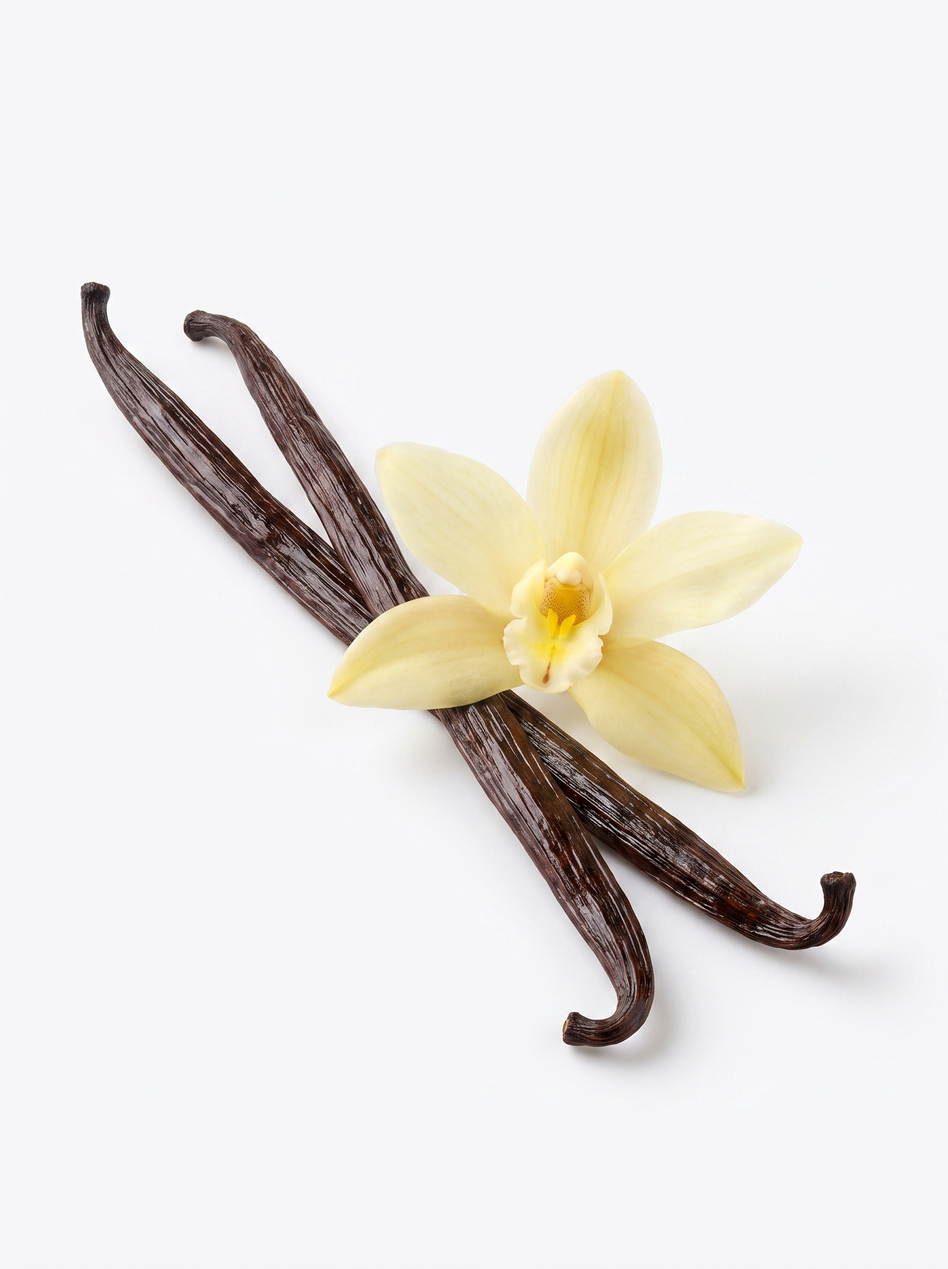
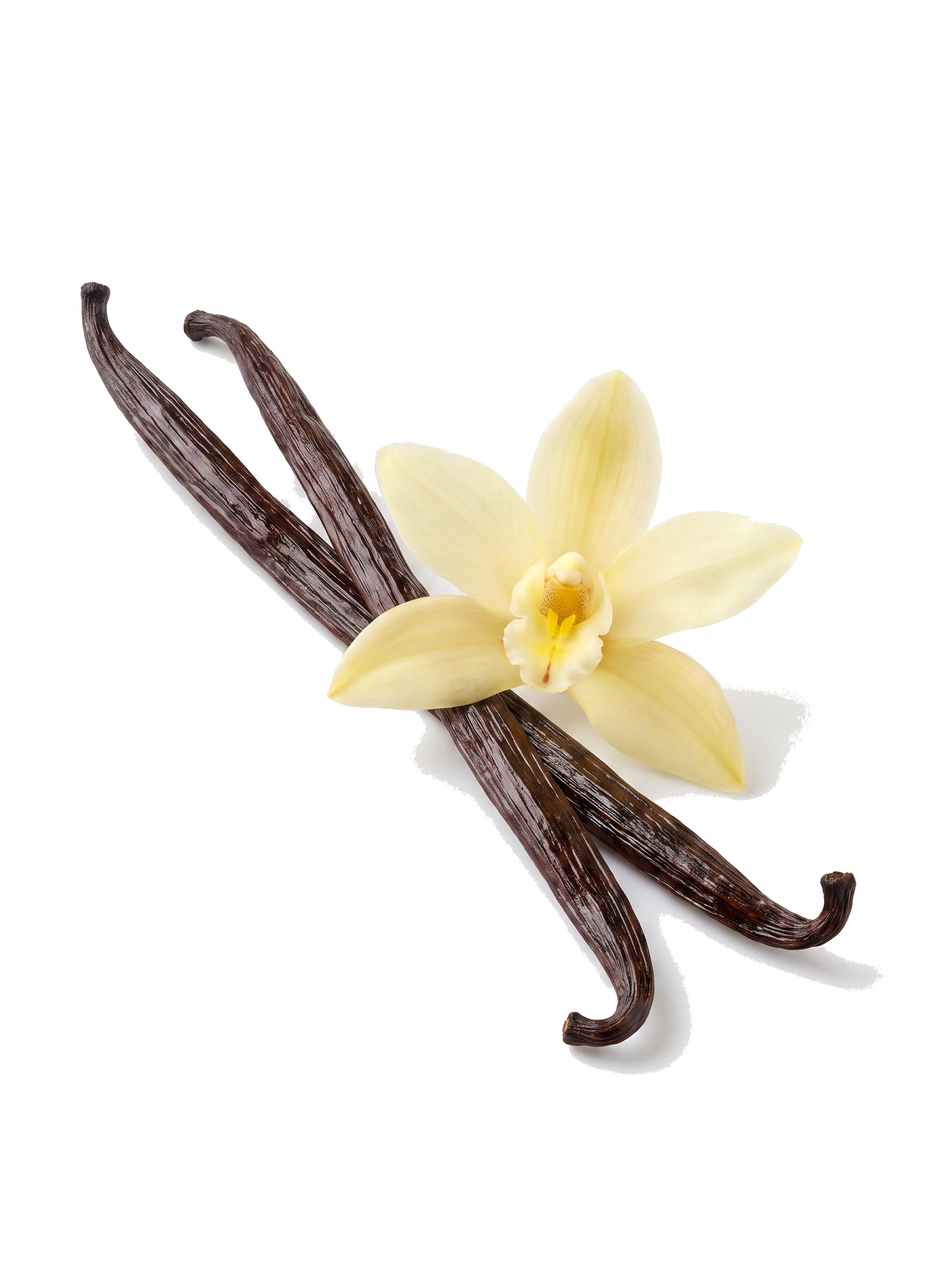
Vanilla flavor card: interactive hover with ingredient layers + buttons
- Cut white bg from eff1-eff4 ingredient layers (transparent)
- Vanilla tile now layers 4 ingredient PNGs behind the transparent pouch
  (vanilla.png); on hover they rise from behind the pack in sequence
  (ice cream → stems → oatmeal → milk) and settle; reverse on mouse-out
- 'Заказать на OZON' + 'Описание' buttons fade in at the bottom on hover
- Pure CSS :hover, clipped to the card, pack kept in-flow to avoid the
  collapsed aspect-ratio bug

Claude-Session: https://claude.ai/code/session_01NcLD4ysX1Lq8JnggMBUMaA

diff --git a/index.html b/index.html
@@ -476,6 +476,42 @@ a:focus-visible,button:focus-visible,input:focus-visible{
   color:var(--ink);opacity:.45;}
 /* reserved strip for the 2 order buttons (added later) — ~1cm */
 .tile .actions{flex:0 0 auto;height:40px;}
+/* ---------- Interactive vanilla card ---------- */
+.tile.vanilla .photo{position:relative;aspect-ratio:3/4;overflow:hidden;background:var(--cream);}
+/* pack stays in-flow so it defines the box height (avoids collapsed aspect-ratio) */
+.tile.vanilla .pack{position:relative;z-index:3;width:100%;height:100%;object-fit:contain;display:block;padding:0;}
+.tile.vanilla .eff{
+  position:absolute;inset:0;width:100%;height:100%;object-fit:contain;display:block;
+  z-index:1;opacity:0;transform:translateY(58px) scale(.92);pointer-events:none;
+  transition:opacity .5s ease, transform .78s cubic-bezier(.2,.75,.25,1);
+}
+/* leave order (top → down: milk first, ice cream last) */
+.tile.vanilla .eff1{transition-delay:.30s;}
+.tile.vanilla .eff2{transition-delay:.20s;}
+.tile.vanilla .eff3{transition-delay:.10s;}
+.tile.vanilla .eff4{transition-delay:0s;}
+/* hover order (bottom → up: ice cream first, milk last) */
+.tile.vanilla:hover .eff{opacity:1;transform:none;}
+.tile.vanilla:hover .eff1{transition-delay:0s;}
+.tile.vanilla:hover .eff2{transition-delay:.13s;}
+.tile.vanilla:hover .eff3{transition-delay:.26s;}
+.tile.vanilla:hover .eff4{transition-delay:.39s;}
+/* order/description buttons at the bottom */
+.tile.vanilla .tile-actions{
+  position:absolute;left:10px;right:10px;bottom:12px;z-index:4;
+  display:flex;gap:8px;opacity:0;transform:translateY(12px);
+  transition:opacity .35s ease, transform .35s ease;
+}
+.tile.vanilla:hover .tile-actions{opacity:1;transform:none;transition-delay:.22s;}
+.tile-btn{
+  flex:1;text-align:center;padding:10px 6px;border-radius:10px;cursor:pointer;
+  font-family:inherit;font-weight:800;text-transform:uppercase;font-size:11px;
+  letter-spacing:.02em;line-height:1.05;text-decoration:none;
+}
+.tile-btn.ozon{background:var(--red);color:#fff;}
+.tile-btn.desc{background:var(--cream);color:var(--ink);border:1.6px solid var(--ink);}
+.tile-btn:hover{filter:brightness(1.06);}
+
 /* product name — top, centred, chocolate, Russo One */
 .tile h3{
   position:absolute;top:18px;left:50%;transform:translateX(-50%);
@@ -1140,8 +1176,18 @@ a:focus-visible,button:focus-visible,input:focus-visible{
         <div class="actions"></div>
       </article>
 
-      <article class="tile">
-        <div class="photo"><img src="images/card10.png" alt="OFF Сянка — Ванильное мороженое" loading="lazy" onerror="this.replaceWith(Object.assign(document.createElement('span'),{className:'ph-fallback',textContent:'OS-03'}))"></div>
+      <article class="tile vanilla">
+        <div class="photo">
+          <img class="eff eff1" src="images/eff1.png" alt="" aria-hidden="true" loading="lazy">
+          <img class="eff eff2" src="images/eff2.png" alt="" aria-hidden="true" loading="lazy">
+          <img class="eff eff3" src="images/eff3.png" alt="" aria-hidden="true" loading="lazy">
+          <img class="eff eff4" src="images/eff4.png" alt="" aria-hidden="true" loading="lazy">
+          <img class="pack" src="images/vanilla.png" alt="OFF Сянка — Ванильное мороженое" loading="lazy">
+          <div class="tile-actions">
+            <a class="tile-btn ozon" href="#" target="_blank" rel="noopener">Заказать на OZON</a>
+            <a class="tile-btn desc" href="#">Описание</a>
+          </div>
+        </div>
         <h3>Ванильное мороженое</h3>
         <div class="actions"></div>
       </article>
